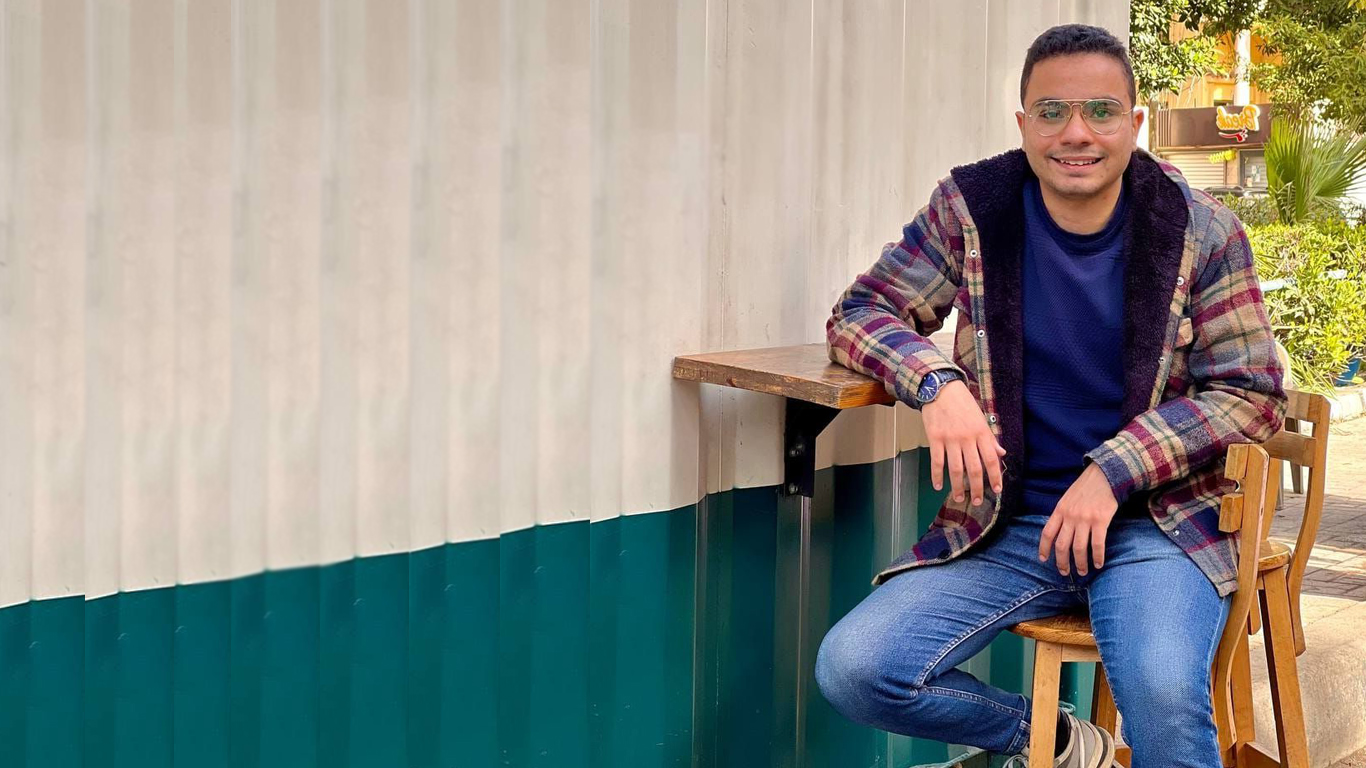
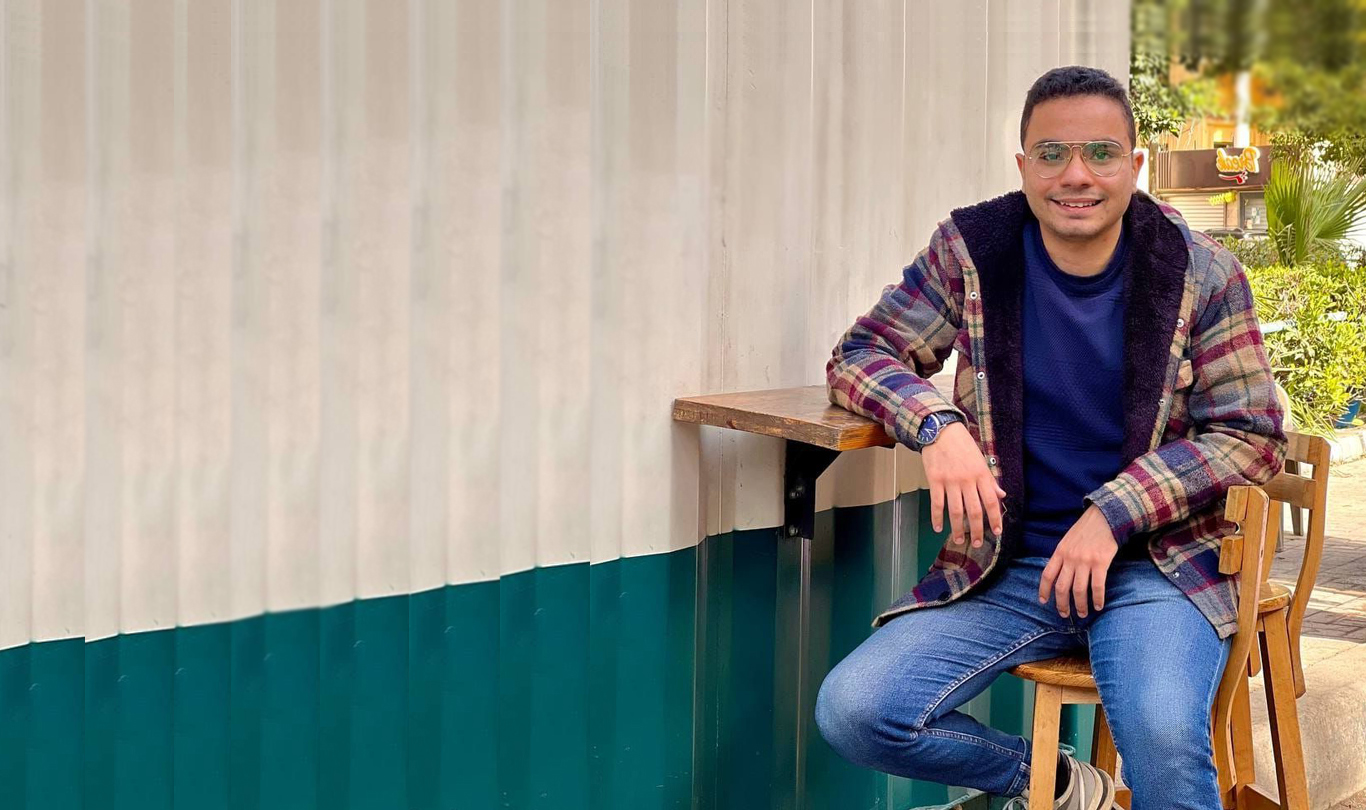
Third commit

Changed region(s): [[0.0, 0.0, 1.0, 1.0]]

diff --git a/style.css b/style.css
@@ -51,7 +51,7 @@ section{
     align-items: center;
     background: url(images/background1.jpg) no-repeat;
     background-size: cover;
-    #background-position : center;
+    background-position : center;
     background-attachment: fixed;
     padding-bottom: 100px;
 }
@@ -234,6 +234,13 @@ section{
     body{
         font-size: 10px;
      
+    }
+}
+
+@media (max-width: 768px) {
+    body {
+        background-size: contain;
+        background-position: top; 
     }
 }
 
